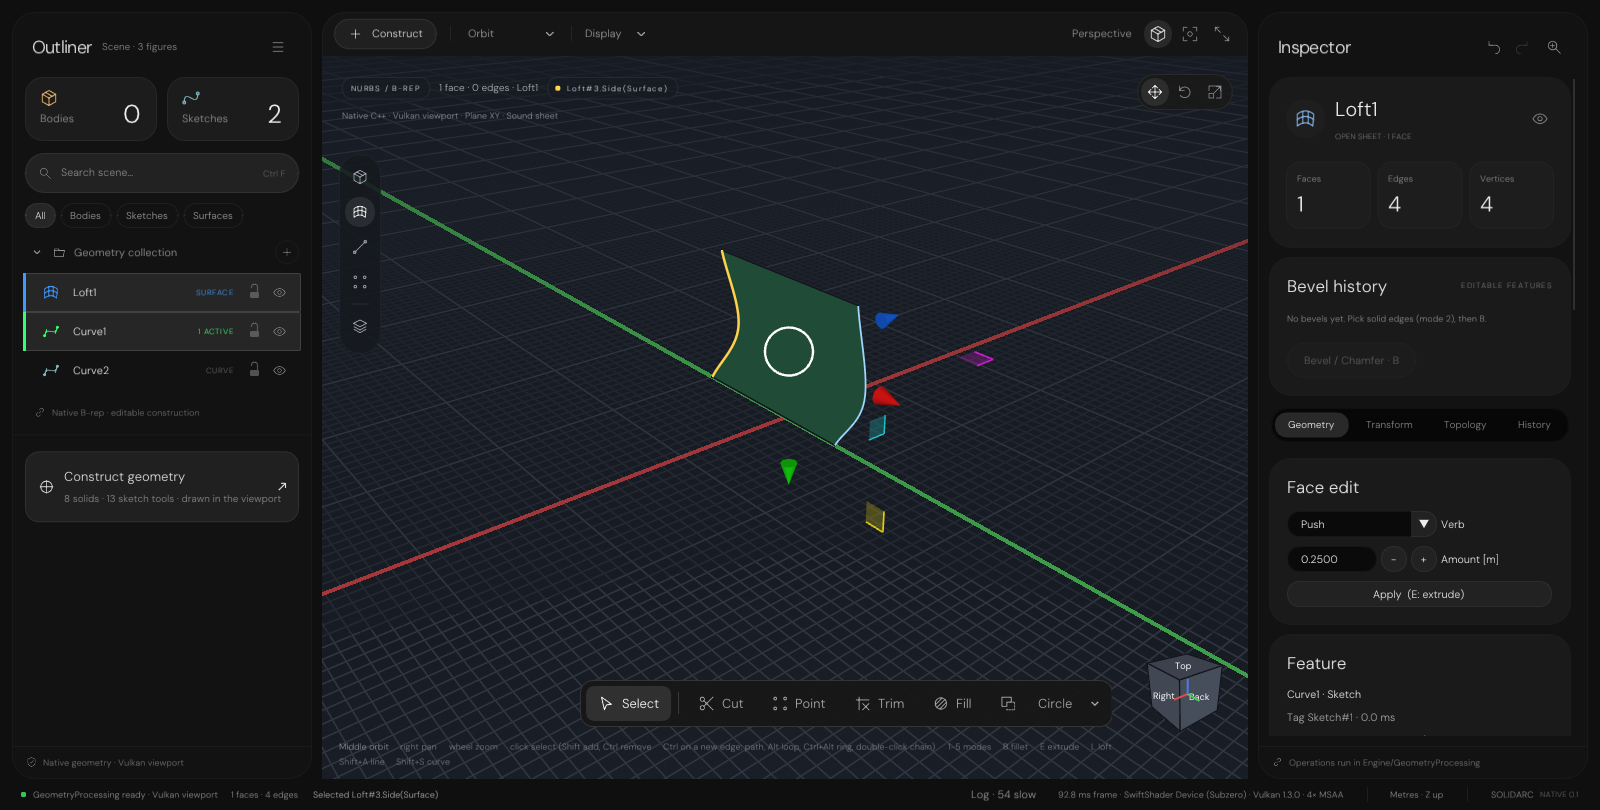
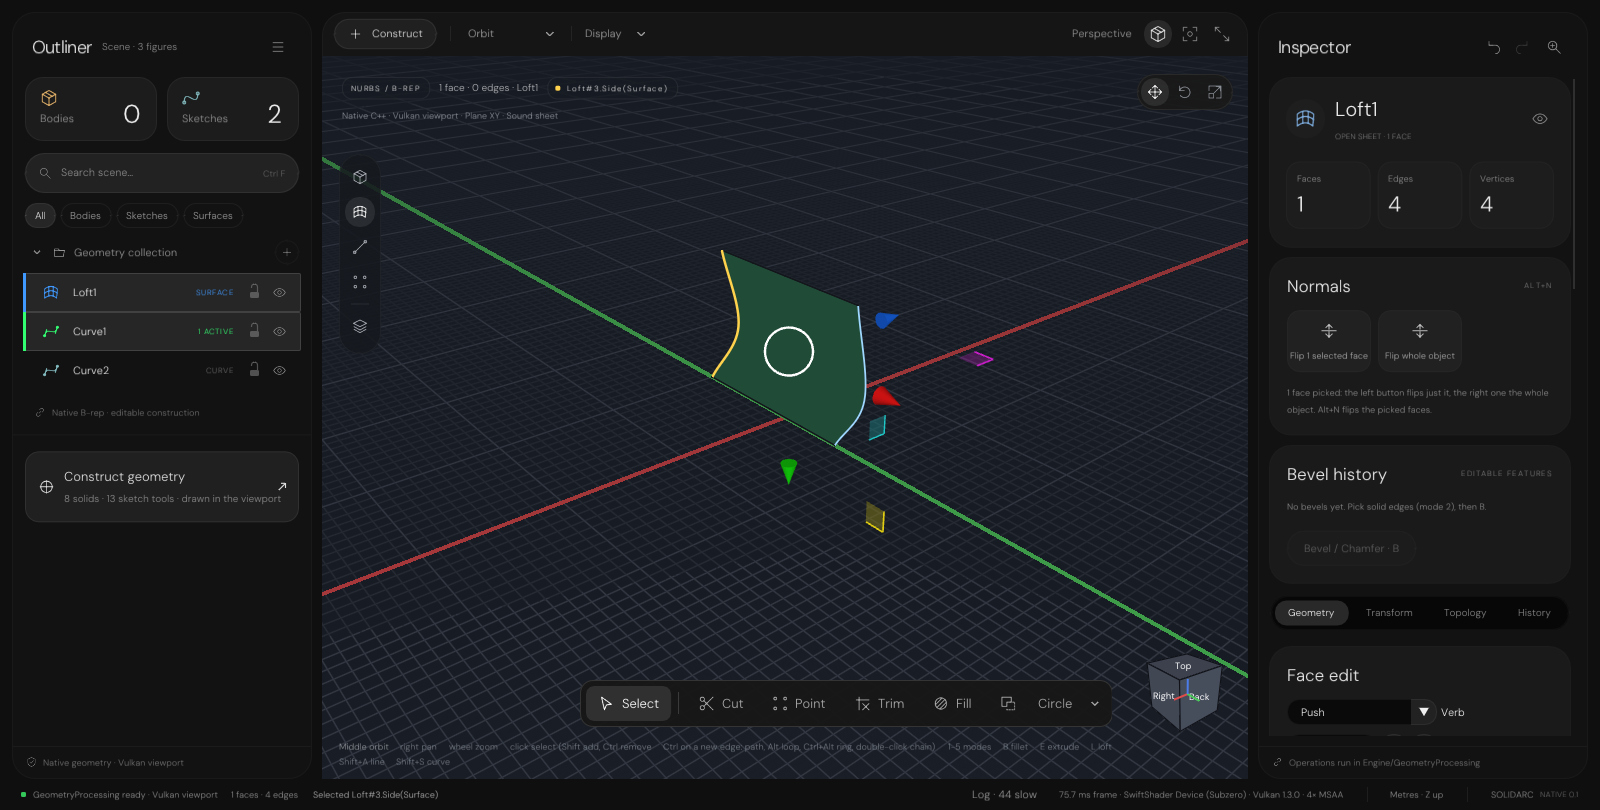
Bevel merge walkthrough 373-377, Normals card captures 378/379; whole-body flip no longer cancels a face flip

diff --git a/UI/SolidArc/Document/SolidArcDocument.cpp b/UI/SolidArc/Document/SolidArcDocument.cpp
@@ -1531,11 +1531,13 @@ SolidArcCommandOutcome FlipSolidArcBodies(SolidArcDocument& Document, const std:
         }
         for (const std::string& Key : Unique)
         {
-            // ① a Flip that is the body's last step is undone instead of stacking a second one
+            // ① a whole-body Flip that is the body's last step is undone instead of stacking a second one. A face Flip is
+            //    not: turning the whole object after some faces must keep those faces' turn (they come back to the
+            //    original side while the rest turns), and removing the step undid the face flip instead.
             auto Last = Document.Tree.Steps.end();
             for (auto Step = Document.Tree.Steps.begin(); Step != Document.Tree.Steps.end(); ++Step)
                 if (Step->Target == Key || Step->Label == Key) Last = Step;
-            if (Last != Document.Tree.Steps.end() && Last->Kind == FeatureStepKind::Flip && Last->Target == Key)
+            if (Last != Document.Tree.Steps.end() && Last->Kind == FeatureStepKind::Flip && Last->Target == Key && Last->References.empty())
             {
                 Document.Captions.erase(Last->Label);
                 Document.Tree.Steps.erase(Last);

diff --git a/Exhibits/SolidArc/Results/Walkthrough/CurveRequestWalkthrough.md b/Exhibits/SolidArc/Results/Walkthrough/CurveRequestWalkthrough.md
@@ -1,9 +1,9 @@
 # SolidArcCapture
 
 - Device: SwiftShader Device (Subzero) · Vulkan 1.3.0 · 4× MSAA
-- Frame: 1600 x 810 · 587 frames · 55.5217 s · slowest frame 507.389 ms
+- Frame: 1600 x 810 · 610 frames · 46.1001 s · slowest frame 428.541 ms
 - Script: /home/user/Frontier/_ClaudeScratch/Upstream/Exhibits/SolidArc/Code/Scripts/CurveRequestWalkthrough.txt
-- Expectations: 37 / 37 passed
+- Expectations: 41 / 41 passed
 
 | Line | Expectation | Observed | Result |
 |-----:|-------------|----------|--------|
@@ -21,44 +21,50 @@
 | 86 | `refused == 0` | 0 | 🟢 |
 | 87 | `flips == 1` | 1 | 🟢 |
 | 88 | `sound == 1` | 1 | 🟢 |
-| 116 | `gizmo-target == 4` | points | 🟢 |
-| 117 | `gizmo-flat == 1` | 1 | 🟢 |
-| 118 | `gizmo-arrows == 2` | 2 | 🟢 |
-| 124 | `gizmo-flat == 0` | 0 | 🟢 |
-| 125 | `gizmo-arrows == 3` | 3 | 🟢 |
-| 131 | `refused == 0` | 0 | 🟢 |
-| 132 | `last-step contains Curve#` | Curve#2 | 🟢 |
-| 133 | `sketches == 0` |  | 🟢 |
-| 160 | `grid-plane == 0` | 0 | 🟢 |
-| 167 | `snap contains curve` | On curve · Spline1 · Curve1 · 3D (the curve leaves the plane) | 🟢 |
-| 168 | `snap-z > 0.5` | 0.7981191452 | 🟢 |
-| 178 | `refused == 0` | 0 | 🟢 |
-| 179 | `last-step contains Curve#` | Curve#2 | 🟢 |
-| 180 | `selected-curves == 1` | Curve2 | 🟢 |
-| 186 | `hidden-curves == 1` | 1 | 🟢 |
-| 187 | `status contains hidden` | Hide selected · 0 body(ies), 1 curve(s) hidden | 🟢 |
-| 191 | `hidden-curves == 0` | 0 | 🟢 |
-| 234 | `sketch-curve-total == 3` | 3 | 🟢 |
-| 237 | `trim == 1` | 1 | 🟢 |
-| 240 | `trim-refusal == 0` |  | 🟢 |
-| 244 | `refused == 0` | 0 | 🟢 |
-| 245 | `sketch-curve-total == 4` | 4 | 🟢 |
-| 248 | `trim == 0` | 0 | 🟢 |
+| 97 | `selected-faces == 0` |  | 🟢 |
+| 101 | `refused == 0` | 0 | 🟢 |
+| 102 | `flips == 2` | 2 | 🟢 |
+| 103 | `sound == 1` | 1 | 🟢 |
+| 131 | `gizmo-target == 4` | points | 🟢 |
+| 132 | `gizmo-flat == 1` | 1 | 🟢 |
+| 133 | `gizmo-arrows == 2` | 2 | 🟢 |
+| 139 | `gizmo-flat == 0` | 0 | 🟢 |
+| 140 | `gizmo-arrows == 3` | 3 | 🟢 |
+| 146 | `refused == 0` | 0 | 🟢 |
+| 147 | `last-step contains Curve#` | Curve#2 | 🟢 |
+| 148 | `sketches == 0` |  | 🟢 |
+| 175 | `grid-plane == 0` | 0 | 🟢 |
+| 182 | `snap contains curve` | On curve · Spline1 · Curve1 · 3D (the curve leaves the plane) | 🟢 |
+| 183 | `snap-z > 0.5` | 0.7981191452 | 🟢 |
+| 193 | `refused == 0` | 0 | 🟢 |
+| 194 | `last-step contains Curve#` | Curve#2 | 🟢 |
+| 195 | `selected-curves == 1` | Curve2 | 🟢 |
+| 201 | `hidden-curves == 1` | 1 | 🟢 |
+| 202 | `status contains hidden` | Hide selected · 0 body(ies), 1 curve(s) hidden | 🟢 |
+| 206 | `hidden-curves == 0` | 0 | 🟢 |
+| 249 | `sketch-curve-total == 3` | 3 | 🟢 |
+| 252 | `trim == 1` | 1 | 🟢 |
+| 255 | `trim-refusal == 0` |  | 🟢 |
+| 259 | `refused == 0` | 0 | 🟢 |
+| 260 | `sketch-curve-total == 4` | 4 | 🟢 |
+| 263 | `trim == 0` | 0 | 🟢 |
 
 | Capture | Frame | Digest |
 |---------|------:|--------|
-| 351CurveLoftPicked | 110 | `af0233a1ee5ab2af` |
-| 352CurveLoftSheet | 146 | `3de4ca4e504419a7` |
-| 353CurveFlipFace | 165 | `c886fb7cb1b8d860` |
-| 354CurveFlipped | 179 | `522cbc1e4b2c7324` |
-| 355GizmoFlat | 252 | `748f1480cce2481d` |
-| 356GizmoSpace | 276 | `f1806de01abb7d6a` |
-| 357GizmoLifted | 297 | `0b8156d650e9ddb1` |
-| 358AltCurveSnap | 397 | `95d47e1f160b0771` |
-| 359AltCurveDrawn | 424 | `17649a8253a1f977` |
-| 360CurveHidden | 432 | `4e98d92eab1cac18` |
-| 361CurveTrimHover | 571 | `1f561fa93cfa4aec` |
-| 362CurveTrimmed | 587 | `b3c37420f83471b2` |
+| 351CurveLoftPicked | 110 | `764c6e46a99555d4` |
+| 352CurveLoftSheet | 146 | `fc00c7941643668d` |
+| 353CurveFlipFace | 165 | `6d1ec4440f561bb9` |
+| 354CurveFlipped | 176 | `05fad324f36507ca` |
+| 378NormalsCardObject | 191 | `1169bb916ff64bfd` |
+| 379NormalsObjectFlipped | 202 | `fca3da15190582b6` |
+| 355GizmoFlat | 275 | `22318751f418f496` |
+| 356GizmoSpace | 299 | `f02c26870bf83c2d` |
+| 357GizmoLifted | 320 | `a68c2812444cec76` |
+| 358AltCurveSnap | 420 | `653aa72cabad1e0b` |
+| 359AltCurveDrawn | 447 | `46e21f0669a6b2ba` |
+| 360CurveHidden | 455 | `7429e89742968fb5` |
+| 361CurveTrimHover | 594 | `9f035154264688c7` |
+| 362CurveTrimmed | 610 | `f0cb8525b7923222` |
 
 ## Journal
 
@@ -79,6 +85,8 @@
 - Selected Loft#3.Side(Surface)
 - Autosaved _ClaudeScratch/SolidArcWorkspace/CurveRequestRecovery.solidarc
 - Flip normals (1 face(s) of Loft1) · 3 ms
+- Selected Loft1 (1 faces)
+- Flip normals (Loft1) · 3 ms
 - New document (previous recovery copy kept)
 - Curve on plane YZ (or the body face under the first click): click points · 1 Hermite · 2 Bezier · 3 NURBS · 4 cubic spline · Enter / right-click finishes · Ctrl+Z drops a point · hold Ctrl to snap to ends / midpoints / centres, Alt to slide along a curve · Esc aborts
 - Autosaved _ClaudeScratch/SolidArcWorkspace/CurveRequestRecovery.solidarc

diff --git a/Exhibits/SolidArc/Results/Walkthrough/BevelMergeWalkthrough.md b/Exhibits/SolidArc/Results/Walkthrough/BevelMergeWalkthrough.md
@@ -1,0 +1,72 @@
+# SolidArcCapture
+
+- Device: SwiftShader Device (Subzero) · Vulkan 1.3.0 · 4× MSAA
+- Frame: 1600 x 810 · 301 frames · 25.351 s · slowest frame 447.057 ms
+- Script: /home/user/Frontier/_ClaudeScratch/Upstream/Exhibits/SolidArc/Code/Scripts/BevelMergeWalkthrough.txt
+- Expectations: 28 / 28 passed
+
+| Line | Expectation | Observed | Result |
+|-----:|-------------|----------|--------|
+| 32 | `volume ~ 8` | 8 | 🟢 |
+| 43 | `selected-edges == 4` | Edge(Extrude#2.Cap(End)/Extrude#2.Side(Line1)),Edge(Extrude#2.Cap(End)/Extrude#2.Side(L... | 🟢 |
+| 46 | `bevel-active == 1` | 1 | 🟢 |
+| 47 | `bevel-merges == 2` | 2 | 🟢 |
+| 48 | `bevel-merge-first ~ 1` | 1 | 🟢 |
+| 56 | `bevel-size ~ 0.98` | 0.98 | 🟢 |
+| 57 | `bevel-refusal == 0` |  | 🟢 |
+| 63 | `bevel-merge-snaps > 0` | 3 | 🟢 |
+| 64 | `bevel-size ~ 1` | 1 | 🟢 |
+| 65 | `bevel-refusal == 0` |  | 🟢 |
+| 66 | `bevel-preview-volume ~ 6.666666666666667` | 6.666666667 | 🟢 |
+| 72 | `bevel-chamfer == 1` | 1 | 🟢 |
+| 73 | `bevel-size ~ 1` | 1 | 🟢 |
+| 74 | `bevel-refusal == 0` |  | 🟢 |
+| 75 | `bevel-preview-volume ~ 5.333333333333333` | 5.333333333 | 🟢 |
+| 79 | `refused == 0` | 0 | 🟢 |
+| 80 | `sound == 1` | 1 | 🟢 |
+| 81 | `volume ~ 5.333333333333333` | 5.333333333 | 🟢 |
+| 108 | `selected-edges == 2` | Edge(Extrude#2.Cap(End)/Extrude#2.Side(Line1)),Edge(Extrude#2.Cap(End)/Extrude#2.Side(L... | 🟢 |
+| 116 | `bevel-size ~ 1` | 1 | 🟢 |
+| 117 | `bevel-refusal == 0` |  | 🟢 |
+| 118 | `bevel-preview-volume ~ 7.141592653589793` | 7.141592654 | 🟢 |
+| 122 | `bevel-size ~ 1` | 1 | 🟢 |
+| 123 | `bevel-refusal == 0` |  | 🟢 |
+| 124 | `bevel-preview-volume ~ 6` | 6 | 🟢 |
+| 128 | `refused == 0` | 0 | 🟢 |
+| 129 | `sound == 1` | 1 | 🟢 |
+| 130 | `volume ~ 6` | 6 | 🟢 |
+
+| Capture | Frame | Digest |
+|---------|------:|--------|
+| 373BevelMergeNear | 122 | `c4955773976628cf` |
+| 374BevelMergeApexFillet | 141 | `9bfe134b153d8e53` |
+| 375BevelMergeApexChamfer | 158 | `4c2189948c792e8c` |
+| 376BevelMergeRidgeFillet | 274 | `f577077135de2f23` |
+| 377BevelMergeRidgeChamfer | 291 | `6e670799abc522ed` |
+
+## Journal
+
+- New document (previous recovery copy kept)
+- Block: click the first corner · snaps (Ctrl free) · new body (R) · Q / W / E combine · Tab exact size · Esc aborts
+- Block: click the opposite corner
+- Block: move up, click the height
+- Block1 · New body · 0 ms
+- Selected Edge(Extrude#2.Cap(End)|Extrude#2.Side(Line1))
+- Added Edge(Extrude#2.Cap(End)|Extrude#2.Side(Line2))
+- Added Edge(Extrude#2.Cap(End)|Extrude#2.Side(Line3))
+- Added Edge(Extrude#2.Cap(End)|Extrude#2.Side(Line4))
+- Fillet (B): drag anywhere or the ring handle to size (it stops at the largest that fits) · drag a corner diamond for a variable size · type in the card · D fillet · C chamfer · V taper · Alt+click an edge loop, Ctrl+Alt+click a ring (Shift adds) · Enter / right-click applies · Esc aborts
+- Bevel size 0.98 m (pinned)
+- Bevel size 1 m (handle)
+- Chamfer 1 on 4 edge(s) · 1 ms
+- New document (previous recovery copy kept)
+- Block: click the first corner · snaps (Ctrl free) · new body (R) · Q / W / E combine · Tab exact size · Esc aborts
+- Block: click the opposite corner
+- Autosaved _ClaudeScratch/SolidArcWorkspace/BevelMergeRecovery.solidarc
+- Block: move up, click the height
+- Block1 · New body · 0 ms
+- Selected Edge(Extrude#2.Cap(End)|Extrude#2.Side(Line1))
+- Added Edge(Extrude#2.Cap(End)|Extrude#2.Side(Line3))
+- Fillet (B): drag anywhere or the ring handle to size (it stops at the largest that fits) · drag a corner diamond for a variable size · type in the card · D fillet · C chamfer · V taper · Alt+click an edge loop, Ctrl+Alt+click a ring (Shift adds) · Enter / right-click applies · Esc aborts
+- Bevel size 1 m (pinned)
+- Chamfer 1 on 2 edge(s) · 1 ms
